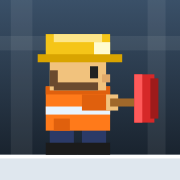
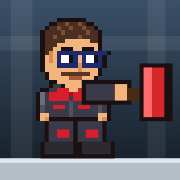
Plumber game: new hero sprite and improved graphics
New pixel-art hero (glasses, mustache, dark workwear with red accents),
beveled stone/tile/brick walls, cylindrical riveted pipes, detailed
background pipes with valves, wooden signs; updated home screen icons.

Claude-Session: https://claude.ai/code/session_01Lmezexk9Q2iH1VD7KgizT6

diff --git a/public/plumber-game/index.html b/public/plumber-game/index.html
@@ -595,7 +595,7 @@ const BOSSES = {
 };
 
 const THEMES = {
-  kitchen:  { style:'tile', bg1:'#3a5068', bg2:'#18232e', far:'#2e4256', mid:'#24364a', wall:'#dfe7ee', wall2:'#c7d3dd', grout:'#93a6b6', top:'#ffffff',
+  kitchen:  { style:'block', bg1:'#3a5068', bg2:'#18232e', far:'#2e4256', mid:'#24364a', wall:'#b4bec7', wall2:'#a3adb7', grout:'#56616b', top:'#dfe6ec',
               pipe:'#9aa7b3', pipeHi:'#dde6ee', pipeLo:'#5d6a76', dark:0, liq:['#556b22', '#6f8a2a', '#46591b', '#a2b84a'] },
   bathroom: { style:'tile', bg1:'#2f5d6e', bg2:'#122a33', far:'#2a5262', mid:'#1f4351', wall:'#bfe3ea', wall2:'#a5d3dd', grout:'#6fa7b5', top:'#f2fdff',
               pipe:'#b8c4cc', pipeHi:'#f4f8fb', pipeLo:'#6b7a85', dark:0, liq:['#5f7f8a', '#86aab5', '#4a6a75', '#e6f7ff'] },
@@ -1440,22 +1440,38 @@ function drawBackground(th, camx) {
 function layer(off, seg, col, alpha, seed) {
   ctx.globalAlpha = alpha;
   const i0 = Math.floor(off / seg) - 1, i1 = i0 + Math.ceil(VW / seg) + 2;
+  const hiA = seed === 2 ? 0.1 : 0.06, loA = seed === 2 ? 0.22 : 0.16;
   for (let i = i0; i <= i1; i++) {
     const h1 = hash(i * 7 + seed), h2 = hash(i * 13 + seed * 3), h3 = hash(i * 29 + seed * 5);
     const x = i * seg - off;
-    // вертикальная труба
+    // вертикальная труба с объёмом
     const pw = 22 + h1 * 26, px = x + h2 * (seg - pw);
     R(px, 0, pw, VH, col);
-    R(px - 4, 120 + h3 * 200, pw + 8, 10, col);
-    ctx.fillStyle = 'rgba(255,255,255,.04)'; ctx.fillRect(px + pw * 0.2, 0, pw * 0.15, VH);
+    ctx.fillStyle = `rgba(255,255,255,${hiA})`; ctx.fillRect(px + pw * 0.18, 0, pw * 0.16, VH);
+    ctx.fillStyle = `rgba(0,0,0,${loA})`; ctx.fillRect(px + pw * 0.7, 0, pw * 0.3, VH);
+    for (const fy of [120 + h3 * 200, 420 + h1 * 60]) {
+      R(px - 4, fy, pw + 8, 10, col);
+      ctx.fillStyle = `rgba(255,255,255,${hiA})`; ctx.fillRect(px - 4, fy, pw + 8, 2);
+      ctx.fillStyle = `rgba(0,0,0,${loA})`; ctx.fillRect(px - 4, fy + 8, pw + 8, 2);
+      ctx.fillStyle = `rgba(0,0,0,${loA * 1.4})`; for (let k = 0; k < 3; k++) ctx.fillRect(px + k * pw / 2 - 1, fy + 3, 3, 3);
+    }
     // горизонтальная
     if (h3 > 0.35) {
       const py = 40 + hash(i * 3 + seed) * 300, ph = 14 + h1 * 14;
       R(x, py, seg + 1, ph, col);
+      ctx.fillStyle = `rgba(255,255,255,${hiA})`; ctx.fillRect(x, py + ph * 0.2, seg + 1, ph * 0.18);
+      ctx.fillStyle = `rgba(0,0,0,${loA})`; ctx.fillRect(x, py + ph * 0.72, seg + 1, ph * 0.28);
       R(x + seg * 0.5, py - 3, 8, ph + 6, col);
-      if (h2 > 0.6) { // вентиль
-        ctx.fillStyle = col; ctx.beginPath(); ctx.arc(x + seg * 0.25, py - 12, 12, 0, Math.PI * 2); ctx.fill();
-        R(x + seg * 0.25 - 2, py - 12, 4, 12, col);
+      ctx.fillStyle = `rgba(0,0,0,${loA * 1.4})`; ctx.fillRect(x + seg * 0.5 + 2, py, 3, 3); ctx.fillRect(x + seg * 0.5 + 2, py + ph - 3, 3, 3);
+      if (h2 > 0.55) { // вентиль-штурвал
+        const vx = x + seg * 0.25, vy = py - 16, rot = (seed + i) * 0.7;
+        R(vx - 2, vy, 4, 16, col);
+        ctx.strokeStyle = col; ctx.lineWidth = 3; ctx.beginPath(); ctx.arc(vx, vy, 13, 0, Math.PI * 2); ctx.stroke();
+        ctx.lineWidth = 2; ctx.beginPath();
+        for (let k = 0; k < 5; k++) { const a = rot + k * Math.PI * 2 / 5; ctx.moveTo(vx, vy); ctx.lineTo(vx + Math.cos(a) * 12, vy + Math.sin(a) * 12); }
+        ctx.stroke();
+        ctx.fillStyle = col; ctx.beginPath(); ctx.arc(vx, vy, 4, 0, Math.PI * 2); ctx.fill();
+        ctx.strokeStyle = `rgba(255,255,255,${hiA})`; ctx.lineWidth = 1; ctx.beginPath(); ctx.arc(vx, vy, 13, Math.PI, Math.PI * 1.6); ctx.stroke();
       }
     }
   }
@@ -1533,55 +1549,92 @@ function drawWorld(L) {
 function drawTile(c, x, y, tx, ty, th, bump) {
   switch (c) {
     case '#': {
-      const above = tileAt(tx, ty - 1);
+      const above = tileAt(tx, ty - 1), lit = 'rgba(255,255,255,.28)', shd = 'rgba(0,0,0,.28)';
       R(x, y, T, T, th.wall);
       if (th.style === 'tile') {
-        R(x, y, T, 1, th.grout); R(x, y, 1, T, th.grout); R(x + 16, y, 1, T, th.grout); R(x, y + 16, T, 1, th.grout);
-        R(x + 3, y + 3, 5, 2, '#fff'); R(x + 19, y + 19, 5, 2, '#fff');
-      } else if (th.style === 'block') {
-        R(x, y, T, 1, th.grout); R(x, y + 16, T, 1, th.grout);
-        const o = ty % 2 ? 0 : 16; R(x + o, y, 1, 16, th.grout); R(x + (o + 16) % 32, y + 16, 1, 16, th.grout);
-        if (hash(tx * 31 + ty * 7) > 0.7) R(x + 8, y + 22, 3, 3, th.wall2);
-        if (hash(tx * 17 + ty) > 0.8) R(x + 20, y + 6, 4, 2, th.wall2);
-      } else if (th.style === 'earth') {
-        R(x + 4 + hash(tx * 7 + ty) * 16, y + 6 + hash(tx + ty * 5) * 16, 7, 5, th.wall2);
-        R(x + 18 - hash(tx * 3 + ty) * 10, y + 18 + hash(ty * 11 + tx) * 8, 5, 4, th.grout);
-        if (hash(tx * 13 + ty * 17) > 0.6) R(x + 10, y + 12, 9, 6, '#8a7a62');
-      } else {
-        for (let r = 0; r < 4; r++) {
-          R(x, y + r * 8, T, 1, th.grout);
-          const o = r % 2 ? 8 : 0; R(x + o, y + r * 8, 1, 8, th.grout); R(x + o + 16, y + r * 8, 1, 8, th.grout);
+        // кафель 16×16 с фаской
+        for (const [ux, uy] of [[0, 0], [16, 0], [0, 16], [16, 16]]) {
+          R(x + ux, y + uy, 16, 16, th.grout); R(x + ux + 1, y + uy + 1, 14, 14, (ux + uy + tx + ty) % 32 ? th.wall : th.wall2);
+          R(x + ux + 1, y + uy + 1, 14, 2, 'rgba(255,255,255,.55)'); R(x + ux + 1, y + uy + 1, 2, 14, 'rgba(255,255,255,.35)');
+          R(x + ux + 1, y + uy + 13, 14, 2, 'rgba(0,0,0,.14)'); R(x + ux + 13, y + uy + 1, 2, 14, 'rgba(0,0,0,.1)');
         }
-        if (hash(tx * 11 + ty * 3) > 0.6) R(x + 4, y + 10, 6, 5, th.wall2);
+        R(x + 4, y + 4, 4, 2, '#fff');
+      } else if (th.style === 'block') {
+        // каменная кладка 32×16 со смещением и фаской
+        const o = ty % 2 ? 0 : 16;
+        for (const [bx, by, bw] of [[o - 32, 0, 32], [o, 0, 32], [(o + 16) % 32 - 32, 16, 32], [(o + 16) % 32, 16, 32]]) {
+          const cx0 = Math.max(0, bx), cx1 = Math.min(32, bx + bw);
+          if (cx1 <= cx0) continue;
+          const shade = hash(tx * 7 + ty * 13 + bx + by) > 0.5 ? th.wall : th.wall2;
+          R(x + cx0, y + by, cx1 - cx0, 16, th.grout);
+          R(x + cx0 + (bx >= 0 ? 1 : 0), y + by + 1, cx1 - cx0 - (bx >= 0 ? 1 : 0) - (bx + bw <= 32 ? 1 : 0), 14, shade);
+          R(x + cx0 + (bx >= 0 ? 1 : 0), y + by + 1, cx1 - cx0 - 1, 2, lit);
+          if (bx >= 0) R(x + bx + 1, y + by + 1, 2, 14, 'rgba(255,255,255,.16)');
+          R(x + cx0, y + by + 13, cx1 - cx0 - 1, 2, shd);
+          if (bx + bw <= 32) R(x + bx + bw - 3, y + by + 1, 2, 14, 'rgba(0,0,0,.18)');
+        }
+        if (hash(tx * 31 + ty * 7) > 0.7) { R(x + 8, y + 22, 3, 2, 'rgba(0,0,0,.25)'); R(x + 9, y + 21, 2, 1, lit); }
+        if (hash(tx * 17 + ty) > 0.75) R(x + 20, y + 6, 4, 2, 'rgba(0,0,0,.2)');
+      } else if (th.style === 'earth') {
+        R(x, y, T, T, th.wall);
+        for (let i = 0; i < 3; i++) {
+          const sx = x + 2 + hash(tx * 7 + ty + i * 5) * 22, sy = y + 3 + hash(tx + ty * 5 + i * 3) * 22, sw = 5 + hash(i + tx) * 5;
+          R(sx, sy, sw, 4, i ? th.wall2 : '#8a7a62'); R(sx, sy, sw, 1, 'rgba(255,255,255,.25)'); R(sx, sy + 3, sw, 1, 'rgba(0,0,0,.3)');
+        }
+        R(x + 18 - hash(tx * 3 + ty) * 10, y + 18 + hash(ty * 11 + tx) * 8, 2, 2, th.grout);
+      } else {
+        // кирпич 16×8 с фаской
+        for (let r = 0; r < 4; r++) {
+          const o = r % 2 ? 8 : 0;
+          for (let k = -1; k < 2; k++) {
+            const bx = o + k * 16, cx0 = Math.max(0, bx), cx1 = Math.min(32, bx + 16);
+            if (cx1 <= cx0) continue;
+            R(x + cx0, y + r * 8, cx1 - cx0, 8, th.grout);
+            R(x + cx0 + (bx >= 0 ? 1 : 0), y + r * 8 + 1, cx1 - cx0 - 1, 6, hash(tx * 5 + ty * 3 + r * 7 + k) > 0.5 ? th.wall : th.wall2);
+            R(x + cx0 + 1, y + r * 8 + 1, cx1 - cx0 - 2, 1, lit); R(x + cx0 + 1, y + r * 8 + 6, cx1 - cx0 - 2, 1, shd);
+          }
+        }
       }
       if (!solid(above) && above !== '~') {
-        R(x, y, T, 4, th.top);
+        R(x, y, T, 4, th.top); R(x, y, T, 1, 'rgba(255,255,255,.6)'); R(x, y + 4, T, 1, 'rgba(0,0,0,.3)');
         if (th.style === 'brick' || th.style === 'earth') { for (let i = 0; i < 4; i++) if (hash(tx * 4 + i) > 0.4) R(x + i * 8 + 2, y + 4, 4, 3 + hash(tx + i * 9) * 6, th.top); }
-        else R(x, y + 4, T, 2, 'rgba(0,0,0,.18)');
       }
       break;
     }
     case '[': case ']': {
-      const L = c === '[';
-      R(x + (L ? -3 : 0), y, T + 3, T, th.pipe);
-      R(x + (L ? -3 : 0), y, T + 3, 4, th.pipeHi);
-      R(x + (L ? -3 : 0), y + T - 4, T + 3, 4, th.pipeLo);
-      if (L) { R(x - 3, y, 4, T, th.pipeLo); R(x + 6, y + 4, 6, T - 8, th.pipeHi); R(x + 4, y + 13, 4, 4, th.pipeLo); }
-      else { R(x + T - 1, y, 4, T, th.pipeLo); R(x + 16, y + 4, 8, T - 8, th.pipeLo); R(x + 22, y + 13, 4, 4, th.pipeHi); }
-      R(x + (L ? 8 : 0), y + 1, L ? 24 : 24, 3, 'rgba(0,0,0,.45)');
+      // оголовок трубы: шире тела, объёмный, с болтами
+      const L = c === '[', px0 = L ? x - 4 : x - 32 - 4, pw = 72;
+      const g = pipeGrad(px0, pw, th);
+      ctx.fillStyle = g;
+      const cx0 = L ? x - 4 : x, cw = L ? T + 4 : T + 4;
+      R(cx0, y, cw, T - 2, '#000'); ctx.fillStyle = g; ctx.fillRect(cx0 + (L ? 2 : 0), y + 2, cw - 2, T - 6);
+      R(cx0, y + 2, cw, 2, 'rgba(255,255,255,.35)');
+      R(cx0, y + T - 6, cw, 3, 'rgba(0,0,0,.35)');
+      // тёмное отверстие сверху
+      R(L ? x + 4 : x, y + 2, L ? T - 4 : T - 4, 3, 'rgba(0,0,0,.55)');
+      // болты
+      for (const bx of L ? [x + 4, x + 20] : [x + 6, x + 22]) { R(bx, y + 11, 5, 5, th.pipeLo); R(bx + 1, y + 12, 2, 2, th.pipeHi); R(bx + 3, y + 14, 2, 2, 'rgba(0,0,0,.5)'); }
       break;
     }
     case '(': case ')': {
       const L = c === '(';
-      R(x, y, T, T, th.pipe);
-      if (L) { R(x, y, 4, T, th.pipeLo); R(x + 8, y, 6, T, th.pipeHi); }
-      else { R(x + T - 4, y, 4, T, th.pipeLo); R(x + 14, y, 10, T, 'rgba(0,0,0,.18)'); }
-      if (hash(tx * 13 + ty * 5) > 0.75) R(x + (L ? 18 : 6), y + 10, 5, 7, '#9a5a2a');
+      const px0 = L ? x : x - 32;
+      ctx.fillStyle = pipeGrad(px0, 64, th);
+      ctx.fillRect(x, y, T, T);
+      if (L) R(x, y, 2, T, '#000'); else R(x + T - 2, y, 2, T, '#000');
+      if (hash(tx * 13 + ty * 5) > 0.78) { R(x + (L ? 18 : 6), y + 10, 5, 7, 'rgba(154,90,42,.75)'); R(x + (L ? 19 : 7), y + 16, 3, 4, 'rgba(154,90,42,.5)'); }
       break;
     }
     case '=': {
-      R(x, y + 2, T, T - 4, th.pipe); R(x, y + 2, T, 3, th.pipeLo); R(x, y + 7, T, 5, th.pipeHi); R(x, y + T - 7, T, 5, th.pipeLo);
-      if (tx % 3 === 0) { R(x, y, 6, T, th.pipeLo); R(x + 1, y + 1, 4, T - 2, th.pipe); R(x + 2, y + 5, 2, 2, th.pipeHi); R(x + 2, y + T - 7, 2, 2, th.pipeHi); }
+      const g = ctx.createLinearGradient(0, y, 0, y + T);
+      g.addColorStop(0, th.pipeLo); g.addColorStop(0.12, th.pipe); g.addColorStop(0.3, th.pipeHi); g.addColorStop(0.5, th.pipe); g.addColorStop(0.88, th.pipeLo); g.addColorStop(1, '#000');
+      R(x, y + 1, T, T - 2, '#000'); ctx.fillStyle = g; ctx.fillRect(x, y + 3, T, T - 6);
+      if (tx % 3 === 0) {
+        // фланец с болтами
+        ctx.fillStyle = g; R(x - 1, y - 1, 9, T + 2, '#000'); ctx.fillRect(x, y, 7, T);
+        R(x, y, 7, 2, 'rgba(255,255,255,.35)');
+        for (const by of [y + 4, y + T - 9]) { R(x + 2, by, 4, 4, th.pipeLo); R(x + 2, by, 2, 2, th.pipeHi); }
+      }
       break;
     }
     case '-': {
@@ -1625,6 +1678,15 @@ function drawTile(c, x, y, tx, ty, th, bump) {
       break;
     }
   }
+}
+
+const _pipeGradCache = new Map();
+function pipeGrad(px0, pw, th) {
+  // горизонтальный «цилиндрический» градиент для вертикальной трубы
+  const g = ctx.createLinearGradient(px0, 0, px0 + pw, 0);
+  g.addColorStop(0, th.pipeLo); g.addColorStop(0.1, th.pipe); g.addColorStop(0.24, th.pipeHi); g.addColorStop(0.34, th.pipeHi);
+  g.addColorStop(0.5, th.pipe); g.addColorStop(0.85, th.pipeLo); g.addColorStop(1, '#141a20');
+  return g;
 }
 
 function drawClog(x, y, tx, ty, bump) {
@@ -1761,8 +1823,11 @@ function drawBossShot(x, y, s) {
 function drawSign(x, y, s) {
   ctx.font = 'bold 13px "Trebuchet MS",Arial,sans-serif';
   const w = Math.max(60, ctx.measureText(s).width + 16);
-  R(x - 2, y - 40, 4, 40, '#5a3a1a');
-  R(x - w / 2, y - 66, w, 28, '#3b2a18'); R(x - w / 2 + 2, y - 64, w - 4, 24, '#d9b77a');
+  R(x - 3, y - 40, 6, 40, '#2a1a0c'); R(x - 2, y - 40, 4, 40, '#6a4422'); R(x - 2, y - 40, 1, 40, '#8a5c32');
+  R(x - w / 2 - 1, y - 67, w + 2, 30, '#1e140a'); R(x - w / 2 + 1, y - 65, w - 2, 26, '#7a5228');
+  R(x - w / 2 + 3, y - 63, w - 6, 22, '#e2c48a'); R(x - w / 2 + 3, y - 63, w - 6, 2, '#f4dca6'); R(x - w / 2 + 3, y - 52, w - 6, 1, 'rgba(120,80,30,.25)');
+  R(x - w / 2 + 3, y - 43, w - 6, 2, '#b8955a');
+  for (const nx of [x - w / 2 + 5, x + w / 2 - 8]) { R(nx, y - 61, 3, 3, '#5a3a1a'); R(nx, y - 46, 3, 3, '#5a3a1a'); }
   text(s, x, y - 52, 13, '#3b2a18', 'center', false);
 }
 
@@ -1909,46 +1974,92 @@ function drawEnemy(e, camx) {
   ctx.restore();
 }
 
+// ---------- Спрайт героя (пиксель-арт): волосы, синие очки, усы, тёмный рабочий костюм с красными вставками
+const HERO_PAL = {
+  K: '#1a1012', H: '#4a2e1f', h: '#7a4f35', S: '#f2b57e', s: '#d98e55', G: '#1e2a6e', W: '#ffffff', E: '#111111',
+  M: '#5a3420', m: '#a0583a', D: '#3a3a48', d: '#50505f', l: '#6c6c80', R: '#d81e2c', r: '#a5121e',
+};
+const HERO_ROWS = [
+  '......KKKKKKK.........',
+  '....KKHHhHHhHKK.......',
+  '...KHHhHHhHHhHHK......',
+  '..KHHHHhHHHHHhHHK.....',
+  '..KHHhHHHHHhHHHHK.....',
+  '..KHHHHHSSSSSSHHK.....',
+  '..KHHHSSSSSSSSSSK.....',
+  '..KHHSSKKKSSKKKSK.....',
+  '..KHsSGGGGGGGGGGGGK...',
+  '..KSsSGWWEGSGWWEGK....',
+  '..KSsSGWWEGSGWWEGK....',
+  '..KSSSGGGGGsGGGGGK....',
+  '..KSSSSSSSSsSSSSK.....',
+  '...KSSSMMMMMMMSSK.....',
+  '...KSSSSSmmmSSSK......',
+  '....KKSSSSSSSKK.......',
+  '....KDDKSSSSKDDK......',
+  '..KKDDRRRSSRRRDDKK....',
+  '.KlDRRRRRrRRRRRRDDK...',
+  '.KlDRRRRRDRRRRRrDDK...',
+  '.KlDDDDDDdDDDDDDdDK...',
+  '.KdDDRRRDdDRRRDDdDK...',
+  '.KdDDDDDDdDDDDDDdDK...',
+  '.KSSDDDDDdDDDDDDSSK...',
+  '.KSsKKKKKKKKKKKKSsK...',
+];
+function makeSprite(rows, pal, override) {
+  const c = document.createElement('canvas'); c.width = rows[0].length; c.height = rows.length;
+  const g = c.getContext('2d');
+  rows.forEach((row, y) => [...row].forEach((ch, x) => { const col = (override && override[ch]) || pal[ch]; if (col) { g.fillStyle = col; g.fillRect(x, y, 1, 1); } }));
+  return c;
+}
+const HERO_SPR = makeSprite(HERO_ROWS, HERO_PAL);
+const HERO_SPR_DEAD = makeSprite(HERO_ROWS.map((r, i) => i === 9 || i === 10 ? r.replace(/WWE/g, i === 9 ? 'EWE' : 'WEW') : r), HERO_PAL);
+
+function heroLeg(x0, off, lift) {
+  const y0 = 21 - lift;
+  R(x0 - 1, y0, 8, 7, '#1a1012'); R(x0, y0, 6, 6, '#3a3a48'); R(x0, y0, 2, 6, '#50505f');
+  R(x0 + 2, y0 + 2, 3, 2, '#d81e2c');
+  R(x0 - 1 + off, 26 - lift, 9, 4, '#1a1012'); R(x0 + off, 26 - lift, 7, 3, '#2a2a30'); R(x0 + 1 + off, 26 - lift, 3, 1, '#7a7a86');
+}
+
 function drawHero(P, camx) {
   if (P.inv > 0 && !P.dead && Math.floor(P.inv / 4) % 2 === 0) return;
   const x = Math.round(P.x - camx), y = Math.round(P.y);
   ctx.save();
+  ctx.imageSmoothingEnabled = false;
   ctx.translate(x + P.w / 2, y);
   if (P.dead) { ctx.translate(0, 15); ctx.rotate(Math.min(P.deathT, 25) / 25 * Math.PI); ctx.translate(0, -15); }
   ctx.scale(P.face, 1); ctx.translate(-P.w / 2, 0);
   const run = P.onGround && Math.abs(P.vx) > 0.5, air = !P.onGround && !P.dead;
   const ph = run ? Math.floor(P.anim / 1.6) % 4 : 0;
-  let l1 = 0, l2 = 0; if (run) { l1 = [0, -2, 0, 2][ph]; l2 = -l1; } if (air) { l1 = -2; l2 = 3; }
   const bob = run && ph % 2 ? -1 : 0;
-  // бак гидромашины
-  if (G.power) { R(-5, 13 + bob, 7, 12, '#1f6fb8'); R(-5, 13 + bob, 7, 3, '#8fd0ff'); R(-3, 25 + bob, 3, 3, '#14476f'); }
-  // ноги
-  R(4 + l1, 23, 6, 5, '#2b3a67'); R(12 + l2, 23, 6, 5, '#2b3a67');
-  R(3 + l1, 27, 8, 3, '#1b1b1b'); R(11 + l2, 27, 8, 3, '#1b1b1b');
+  // бак гидромашины на спине
+  if (G.power) { R(-6, 9 + bob, 9, 14, '#0e2a44'); R(-5, 10 + bob, 7, 12, '#1f6fb8'); R(-5, 10 + bob, 7, 3, '#8fd0ff'); R(-3, 22 + bob, 3, 3, '#14476f'); }
+  // ноги (анимация)
+  if (air) { heroLeg(4, -1, 2); heroLeg(11, 1, 0); }
+  else if (run) { const a = [0, 2, 0, -2][ph]; heroLeg(4, a, ph === 1 ? 1 : 0); heroLeg(11, -a, ph === 3 ? 1 : 0); }
+  else { heroLeg(4, -1, 0); heroLeg(11, 1, 0); }
+  // туловище и голова
+  ctx.drawImage(P.dead ? HERO_SPR_DEAD : HERO_SPR, 0, -4 + bob);
   ctx.translate(0, bob);
-  // тело — оранжевый комбинезон
-  R(3, 13, 16, 11, '#ff7a1a'); R(3, 13, 16, 2, '#e0600d'); R(3, 18, 16, 2, '#e8f4ff'); R(5, 21, 4, 3, '#e0600d');
-  // голова
-  R(4, 6, 14, 8, '#f1c27d'); R(5, 12, 11, 2, '#6b4a2e'); R(4, 9, 2, 4, '#6b4a2e');
-  if (P.dead) { R(13, 8, 3, 1, '#222'); R(14, 7, 1, 3, '#222'); } else R(14, 8, 2, 3, '#222');
-  R(17, 10, 2, 2, '#e0a868'); R(12, 12, 4, 1, '#3a2010');
-  // каска с фонарём
-  R(3, 0, 16, 6, '#f5c518'); R(5, 0, 12, 2, '#fde68a'); R(1, 5, 21, 2, '#d9a400'); R(15, 2, 4, 3, '#fffbd0');
-  if (G.lvl && G.lvl.theme.dark > 0 && !P.dead) { ctx.fillStyle = 'rgba(255,250,200,.12)'; ctx.beginPath(); ctx.moveTo(19, 3); ctx.lineTo(70, -12); ctx.lineTo(70, 24); ctx.closePath(); ctx.fill(); }
+  if (G.lvl && G.lvl.theme.dark > 0 && !P.dead) { ctx.fillStyle = 'rgba(255,250,200,.10)'; ctx.beginPath(); ctx.moveTo(18, 4); ctx.lineTo(75, -14); ctx.lineTo(75, 26); ctx.closePath(); ctx.fill(); }
   // руки и вантуз
   if (P.attack > 0) {
     const e = P.attack > 9 ? (14 - P.attack) / 5 : P.attack > 4 ? 1 : P.attack / 4;
     const len = 6 + e * 16;
-    R(12, 15, 7, 4, '#e0600d'); R(18, 15, 3, 4, '#f1c27d');
-    R(19, 16, len, 2, '#a0682a');
-    const cx = 19 + len;
-    R(cx, 10, 5, 12, '#d62828'); R(cx + 4, 11, 2, 10, '#9e1b1b'); R(cx, 10, 2, 12, '#ff5a5a');
+    R(12, 11, 9, 6, '#1a1012'); R(13, 12, 7, 4, '#3a3a48'); R(13, 12, 7, 1, '#6c6c80');
+    R(20, 11, 4, 6, '#1a1012'); R(20, 12, 3, 4, '#f2b57e');
+    R(23, 13, len, 3, '#4a2a12'); R(23, 13, len, 1, '#c08850');
+    const cx = 23 + len;
+    R(cx - 1, 7, 8, 14, '#1a1012'); R(cx, 8, 5, 12, '#d62828'); R(cx + 4, 9, 2, 10, '#9e1b1b'); R(cx, 8, 2, 12, '#ff6a6a');
   } else if (G.power && P.shootT > 0) {
-    R(12, 15, 7, 4, '#e0600d'); R(18, 15, 3, 4, '#f1c27d'); R(19, 14, 9, 5, '#59636d'); R(27, 13, 3, 7, '#4fa3ff');
+    R(12, 11, 9, 6, '#1a1012'); R(13, 12, 7, 4, '#3a3a48'); R(20, 12, 3, 4, '#f2b57e');
+    R(21, 10, 10, 7, '#1a1012'); R(22, 11, 8, 5, '#59636d'); R(22, 11, 8, 1, '#a9b4be'); R(29, 10, 3, 7, '#4fa3ff');
   } else {
-    R(16, 10, 2, 17, '#a0682a');
-    R(13, 26, 8, 4, '#d62828'); R(13, 26, 8, 1, '#ff5a5a');
-    R(10, 15, 5, 6, '#e0600d'); R(14, 18, 4, 3, '#f1c27d');
+    // вантуз стоит у руки, как трость
+    R(18, 4, 3, 22, '#1a1012'); R(19, 5, 1, 20, '#c08850'); R(18, 5, 1, 20, '#7a4a22');
+    R(14, 24, 10, 6, '#1a1012'); R(15, 25, 8, 4, '#d62828'); R(15, 25, 8, 1, '#ff6a6a'); R(21, 25, 2, 4, '#9e1b1b');
+    R(16, 18, 5, 4, '#1a1012'); R(17, 18, 3, 3, '#f2b57e');
   }
   ctx.restore();
 }
@@ -1958,7 +2069,7 @@ function drawHUD() {
   for (let i = 0; i < 3; i++) drawHeart(22 + i * 26, 20, 9, i < (G.P ? G.P.hp : 0) ? '#ff4d6d' : 'rgba(255,255,255,.2)');
   text('×' + G.lives, 100, 20, 18, '#fff');
   // мини-вантузыч
-  R(130, 11, 10, 4, '#f5c518'); R(131, 15, 8, 6, '#f1c27d'); R(130, 21, 10, 7, '#ff7a1a');
+  ctx.imageSmoothingEnabled = false; ctx.drawImage(HERO_SPR, 0, 0, 22, 18, 124, 8, 22, 18); ctx.imageSmoothingEnabled = true;
   drawNut(170, 20, 0); text('×' + String(G.nuts).padStart(2, '0'), 184, 20, 18, '#ffd84a');
   text('СЧЁТ ' + String(G.score).padStart(6, '0'), 250, 20, 18, '#fff');
   if (G.power) { drawGunItem(415, 8); text('ВОДА', 445, 20, 14, '#7fd4ff'); }
@@ -2055,7 +2166,7 @@ function loop(now) {
 requestAnimationFrame(loop);
 
 // для отладки / автотестов
-window.__vz = { G, LB, hitBoss, LEVELS, buildLevel, loadLevel, startGame, keys, pressed, kdown, kup };
+window.__vz = { G, LB, hitBoss, HERO_SPR, LEVELS, buildLevel, loadLevel, startGame, keys, pressed, kdown, kup };
 })();
 </script>
 </body>
